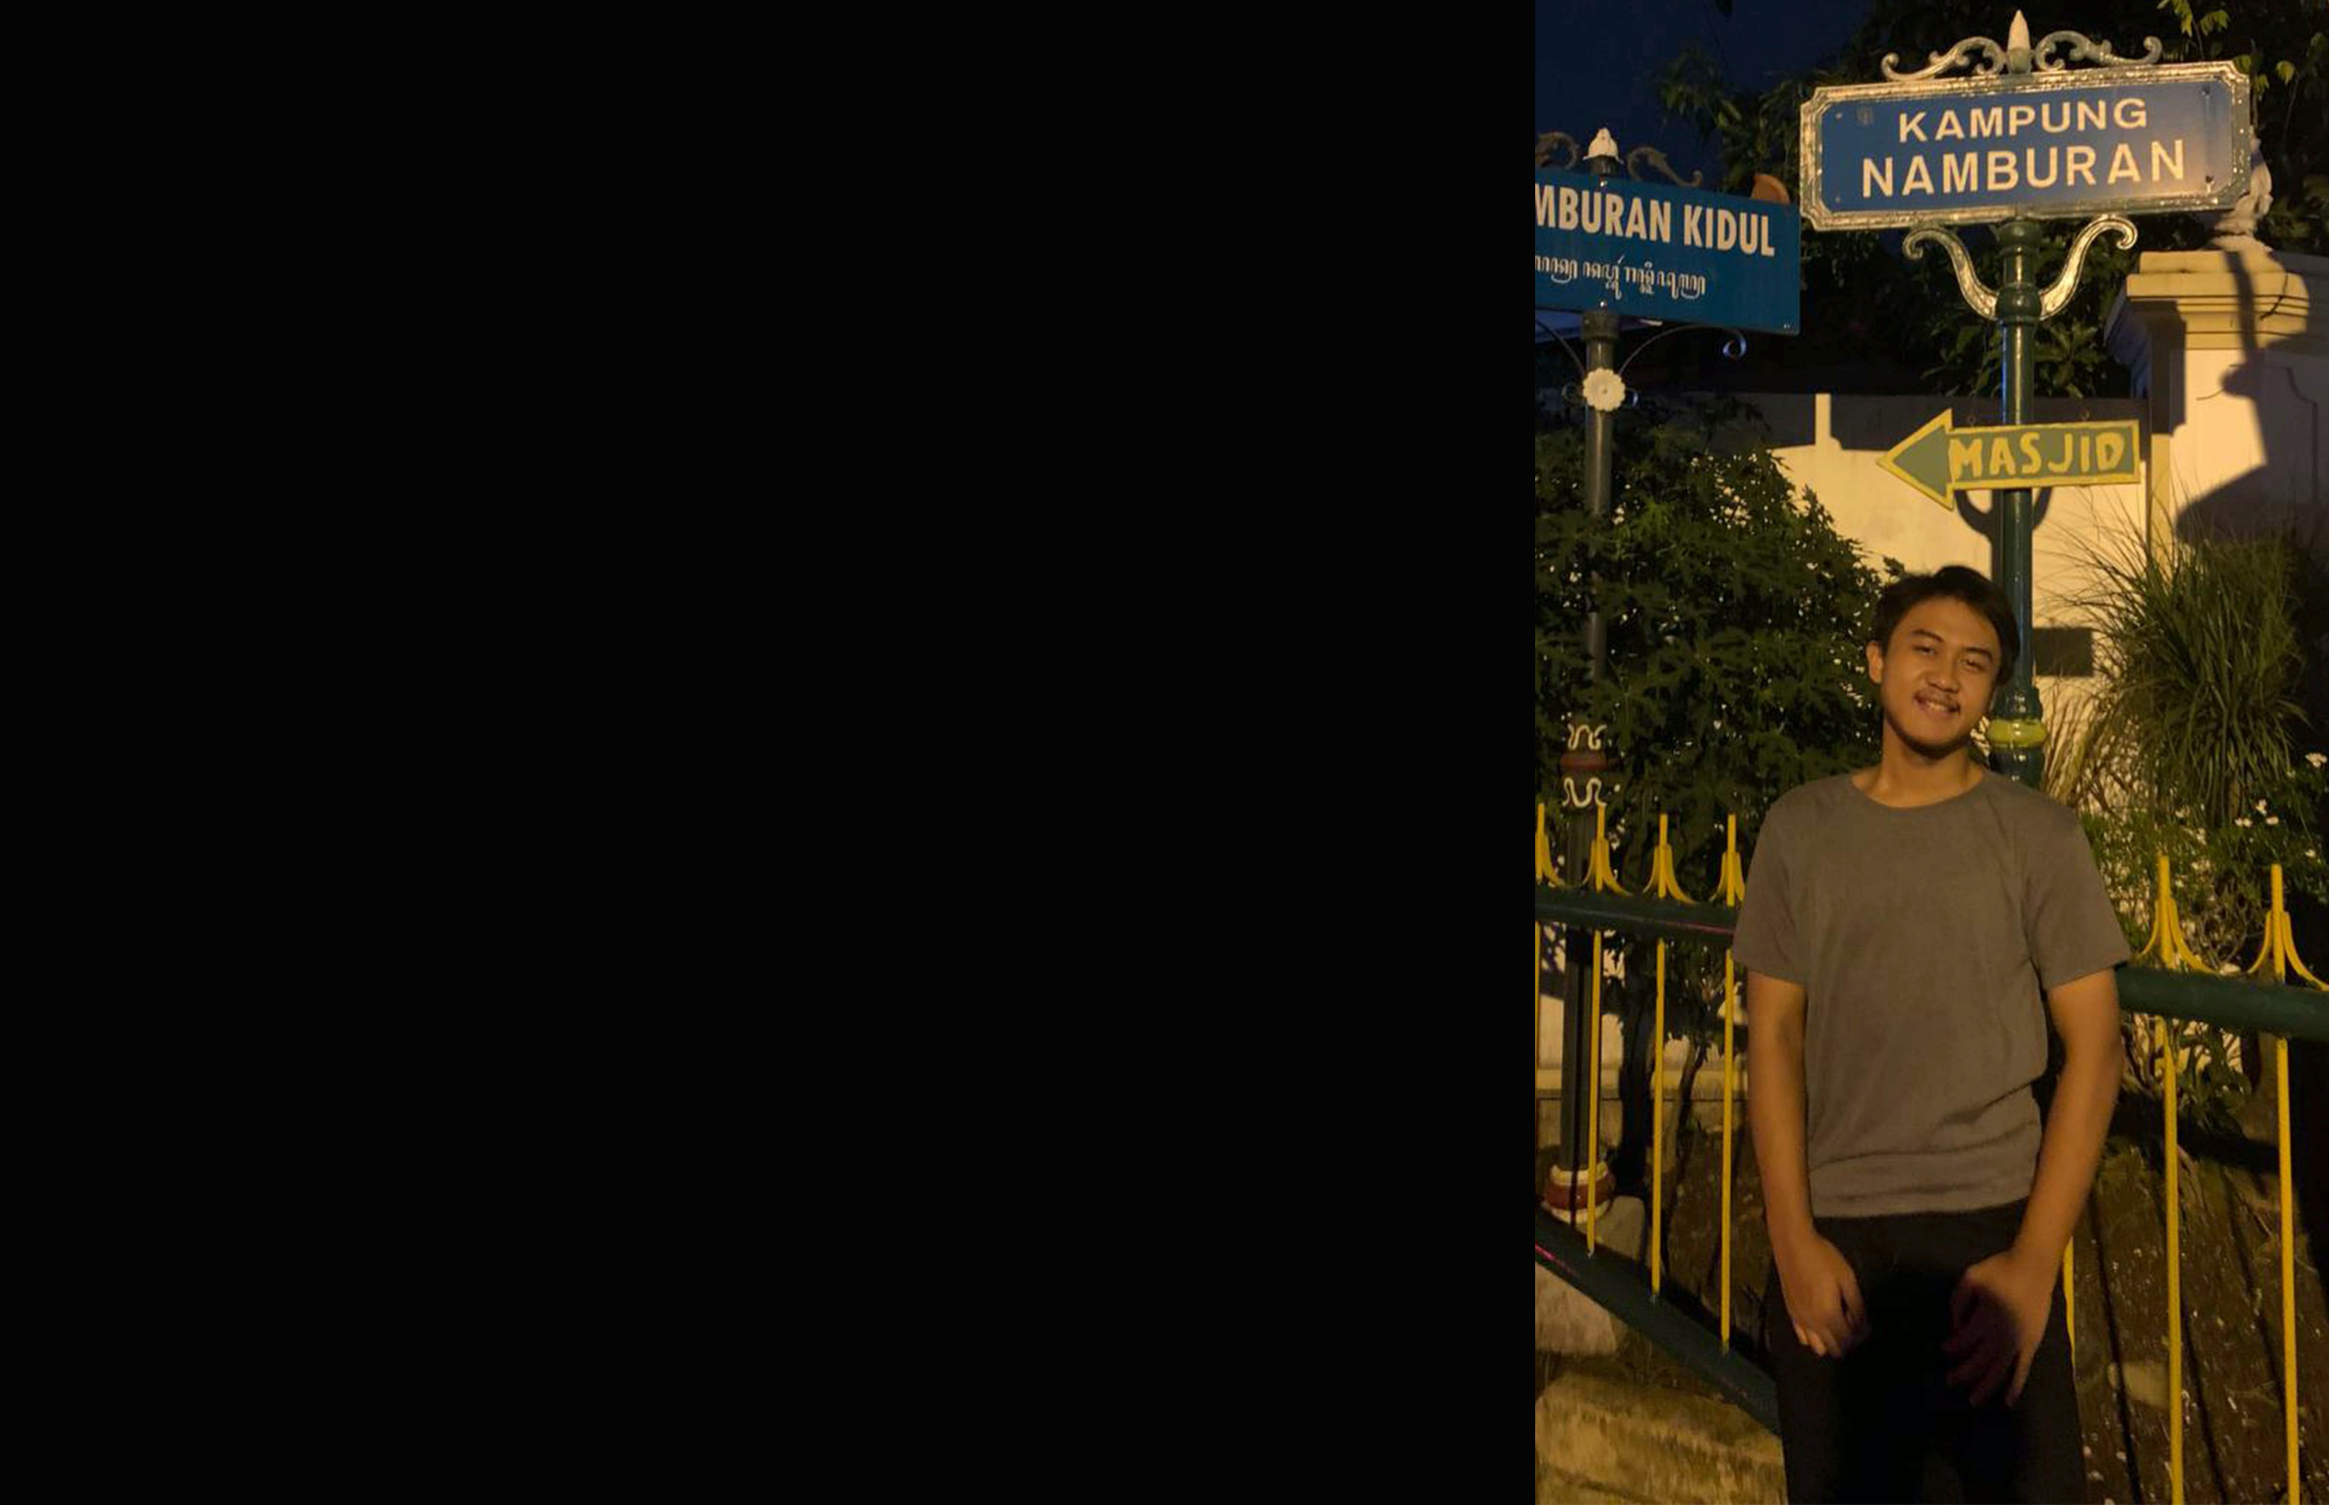
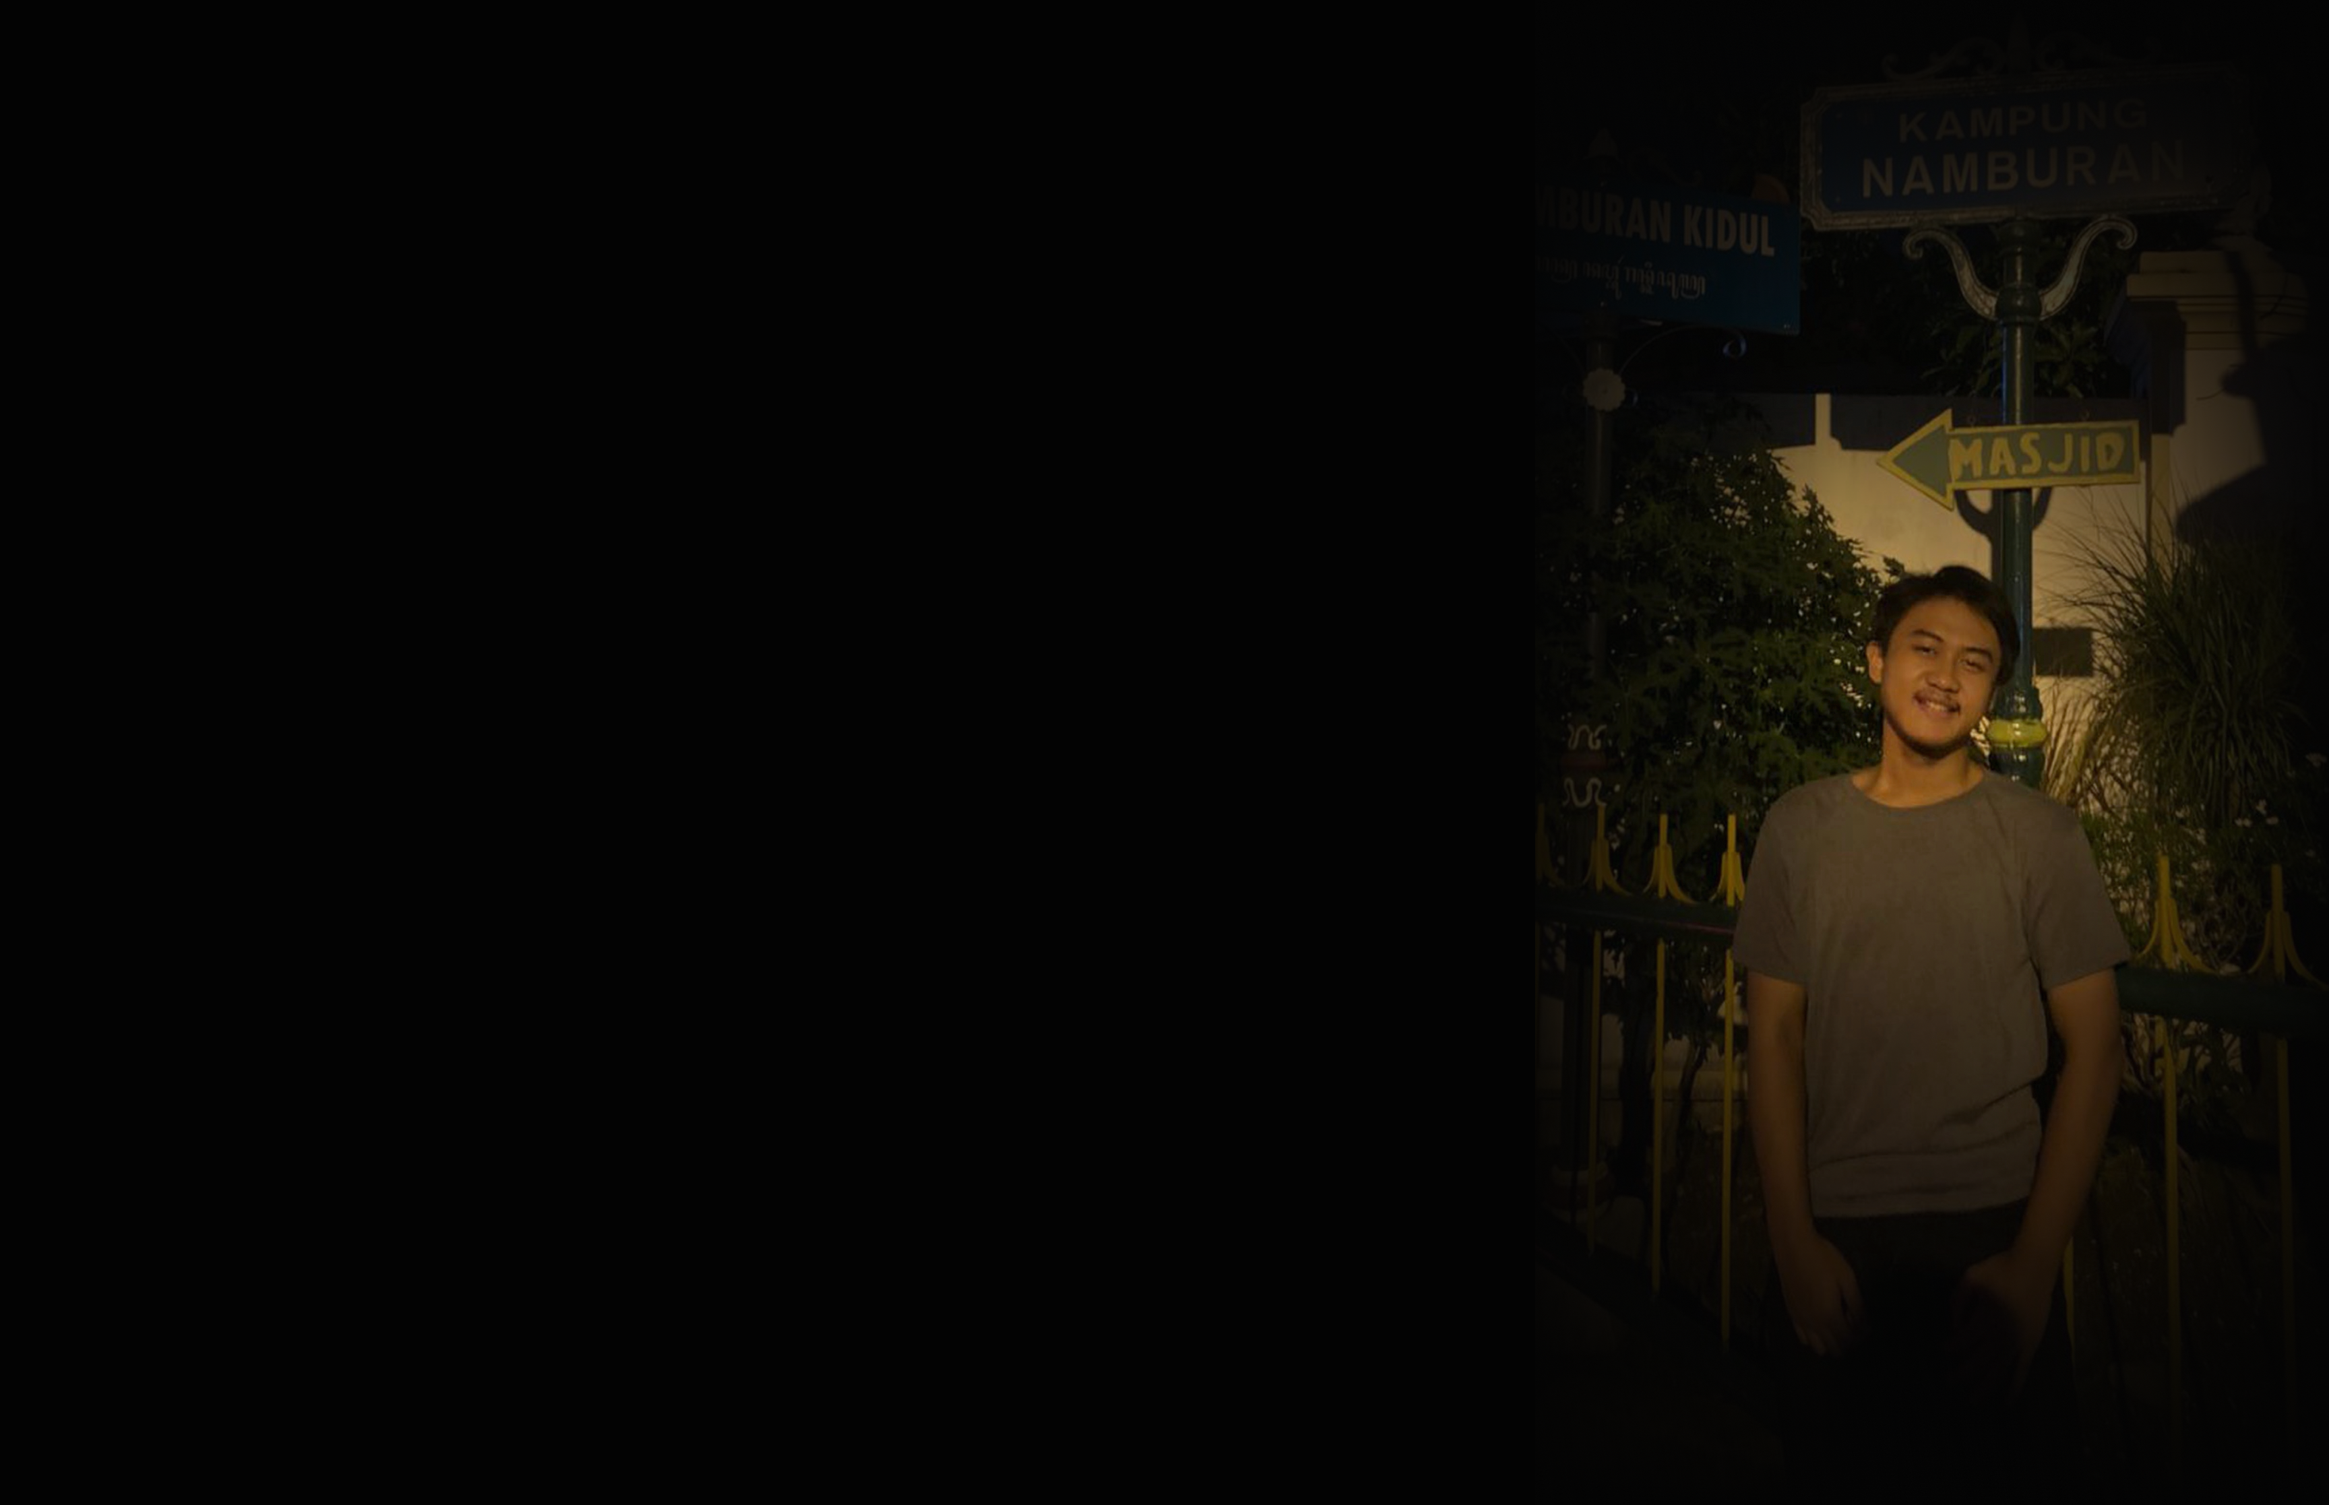
sect. Works-1

Changed region(s): [[0.6562, 0.0, 1.0, 1.0]]

diff --git a/portfolio/index.html b/portfolio/index.html
@@ -85,7 +85,7 @@
 
       <div class="row">
         <div class="col-lg-4" data-aos="fade-right">
-          <img src="" class="img-fluid" alt="">
+          <img src="./assets/img/me.png" class="img-fluid" alt="">
         </div>
         <div class="col-lg-8 pt-4 pt-lg-0 content" data-aos="fade-left">
           <h3>Mobile &amp; Website Developer</h3>
@@ -122,7 +122,7 @@
         <div class="col-lg-4 col-md-6 mt-5 mt-md-0">
           <div class="count-box">
             <i class="bi bi-journal-richtext"></i>
-            <span data-purecounter-start="0" data-purecounter-end="521" data-purecounter-duration="1" class="purecounter"></span>
+            <span data-purecounter-start="0" data-purecounter-end="36" data-purecounter-duration="1" class="purecounter"></span>
             <p>Projects</p>
           </div>
         </div>
@@ -130,15 +130,15 @@
         <div class="col-lg-4 col-md-6 mt-5 mt-lg-0">
           <div class="count-box">
             <i class="bi bi-headset"></i>
-            <span data-purecounter-start="0" data-purecounter-end="1463" data-purecounter-duration="1" class="purecounter"></span>
-            <p>Hours Of Support</p>
+            <span data-purecounter-start="0" data-purecounter-end="2" data-purecounter-duration="1" class="purecounter"></span>
+            <p>Year Of Experience</p>
           </div>
         </div>
 
         <div class="col-lg-4 col-md-6 mt-5 mt-lg-0">
           <div class="count-box">
             <i class="bi bi-award"></i>
-            <span data-purecounter-start="0" data-purecounter-end="24" data-purecounter-duration="1" class="purecounter"></span>
+            <span data-purecounter-start="0" data-purecounter-end="15" data-purecounter-duration="1" class="purecounter"></span>
             <p>Certification</p>
           </div>
         </div>
@@ -310,12 +310,12 @@
             <div class="testimonial-item">
               <p>
                 <i class="bx bxs-quote-alt-left quote-icon-left"></i>
-                Proin iaculis purus consequat sem cure digni ssim donec porttitora entum suscipit rhoncus. Accusantium quam, ultricies eget id, aliquam eget nibh et. Maecen aliquam, risus at semper.
+                Menjadi Sofware Developer 
                 <i class="bx bxs-quote-alt-right quote-icon-right"></i>
               </p>
-              <img src="assets/img/testimonials/testimonials-1.jpg" class="testimonial-img" alt="">
-              <h3>Saul Goodman</h3>
-              <h4>Ceo &amp; Founder</h4>
+              <img src="assets/img/testimonials/testimonials-1.png" class="testimonial-img" alt="">
+              <h3>Harits</h3>
+              <h4>Software Engineer</h4>
             </div>
           </div><!-- End testimonial item -->
 
@@ -593,13 +593,12 @@
 
         <div class="col-lg-4 col-md-6 portfolio-item filter-app">
           <div class="portfolio-wrap">
-            <img src="assets/img/portfolio/portfolio-1.jpg" class="img-fluid" alt="">
+            <img src="assets/img/portfolio/portfolio-1.png" class="img-fluid" alt="">
             <div class="portfolio-info">
-              <h4>App 1</h4>
-              <p>App</p>
+              <h4>Notes Application</h4>
+              <p>Application</p>
               <div class="portfolio-links">
-                <a href="assets/img/portfolio/portfolio-1.jpg" data-gallery="portfolioGallery" class="portfolio-lightbox" title="App 1"><i class="bx bx-plus"></i></a>
-                <a href="portfolio-details.html" data-gallery="portfolioDetailsGallery" data-glightbox="type: external" class="portfolio-details-lightbox" title="Portfolio Details"><i class="bx bx-link"></i></a>
+                <a href="assets/img/portfolio/portfolio-1.png" data-gallery="portfolioGallery" class="portfolio-lightbox"><i class="bx bx-plus"></i></a>
               </div>
             </div>
           </div>
@@ -607,13 +606,12 @@
 
         <div class="col-lg-4 col-md-6 portfolio-item filter-web">
           <div class="portfolio-wrap">
-            <img src="assets/img/portfolio/portfolio-2.jpg" class="img-fluid" alt="">
+            <img src="assets/img/portfolio/portfolio-4.png" class="img-fluid" alt="">
             <div class="portfolio-info">
-              <h4>Web 3</h4>
-              <p>Web</p>
+              <h4>Portfolio Website</h4>
+              <p>Website</p>
               <div class="portfolio-links">
-                <a href="assets/img/portfolio/portfolio-2.jpg" data-gallery="portfolioGallery" class="portfolio-lightbox" title="Web 3"><i class="bx bx-plus"></i></a>
-                <a href="portfolio-details.html" data-gallery="portfolioDetailsGallery" data-glightbox="type: external" class="portfolio-details-lightbox" title="Portfolio Details"><i class="bx bx-link"></i></a>
+                <a href="assets/img/portfolio/portfolio-4.png" data-gallery="portfolioGallery" class="portfolio-lightbox"><i class="bx bx-plus"></i></a>
               </div>
             </div>
           </div>
@@ -621,13 +619,12 @@
 
         <div class="col-lg-4 col-md-6 portfolio-item filter-app">
           <div class="portfolio-wrap">
-            <img src="assets/img/portfolio/portfolio-3.jpg" class="img-fluid" alt="">
+            <img src="assets/img/portfolio/portfolio-2.png" class="img-fluid" alt="">
             <div class="portfolio-info">
-              <h4>App 2</h4>
-              <p>App</p>
+              <h4>News Application</h4>
+              <p>Application</p>
               <div class="portfolio-links">
-                <a href="assets/img/portfolio/portfolio-3.jpg" data-gallery="portfolioGallery" class="portfolio-lightbox" title="App 2"><i class="bx bx-plus"></i></a>
-                <a href="portfolio-details.html" data-gallery="portfolioDetailsGallery" data-glightbox="type: external" class="portfolio-details-lightbox" title="Portfolio Details"><i class="bx bx-link"></i></a>
+                <a href="assets/img/portfolio/portfolio-2.png" data-gallery="portfolioGallery" class="portfolio-lightbox"><i class="bx bx-plus"></i></a>
               </div>
             </div>
           </div>
@@ -635,13 +632,12 @@
 
         <div class="col-lg-4 col-md-6 portfolio-item filter-card">
           <div class="portfolio-wrap">
-            <img src="assets/img/portfolio/portfolio-4.jpg" class="img-fluid" alt="">
+            <img src="assets/img/portfolio/portfolio-8.png" class="img-fluid" alt="">
             <div class="portfolio-info">
-              <h4>Card 2</h4>
-              <p>Card</p>
+              <h4>Vaccine App Design</h4>
+              <p>UI &amp; UX Design</p>
               <div class="portfolio-links">
-                <a href="assets/img/portfolio/portfolio-4.jpg" data-gallery="portfolioGallery" class="portfolio-lightbox" title="Card 2"><i class="bx bx-plus"></i></a>
-                <a href="portfolio-details.html" data-gallery="portfolioDetailsGallery" data-glightbox="type: external" class="portfolio-details-lightbox" title="Portfolio Details"><i class="bx bx-link"></i></a>
+                <a href="assets/img/portfolio/portfolio-8.png" data-gallery="portfolioGallery" class="portfolio-lightbox"2"><i class="bx bx-plus"></i></a>
               </div>
             </div>
           </div>
@@ -649,13 +645,12 @@
 
         <div class="col-lg-4 col-md-6 portfolio-item filter-web">
           <div class="portfolio-wrap">
-            <img src="assets/img/portfolio/portfolio-5.jpg" class="img-fluid" alt="">
+            <img src="assets/img/portfolio/portfolio-5.png" class="img-fluid" alt="">
             <div class="portfolio-info">
-              <h4>Web 2</h4>
-              <p>Web</p>
+              <h4>IDN Gourmet Website</h4>
+              <p>Website</p>
               <div class="portfolio-links">
-                <a href="assets/img/portfolio/portfolio-5.jpg" data-gallery="portfolioGallery" class="portfolio-lightbox" title="Web 2"><i class="bx bx-plus"></i></a>
-                <a href="portfolio-details.html" data-gallery="portfolioDetailsGallery" data-glightbox="type: external" class="portfolio-details-lightbox" title="Portfolio Details"><i class="bx bx-link"></i></a>
+                <a href="assets/img/portfolio/portfolio-5.png" data-gallery="portfolioGallery" class="portfolio-lightbox"><i class="bx bx-plus"></i></a>
               </div>
             </div>
           </div>
@@ -663,13 +658,12 @@
 
         <div class="col-lg-4 col-md-6 portfolio-item filter-app">
           <div class="portfolio-wrap">
-            <img src="assets/img/portfolio/portfolio-6.jpg" class="img-fluid" alt="">
+            <img src="assets/img/portfolio/portfolio-3.png" class="img-fluid" alt="">
             <div class="portfolio-info">
-              <h4>App 3</h4>
-              <p>App</p>
+              <h4>Smart Alarm Application</h4>
+              <p>Application</p>
               <div class="portfolio-links">
-                <a href="assets/img/portfolio/portfolio-6.jpg" data-gallery="portfolioGallery" class="portfolio-lightbox" title="App 3"><i class="bx bx-plus"></i></a>
-                <a href="portfolio-details.html" data-gallery="portfolioDetailsGallery" data-glightbox="type: external" class="portfolio-details-lightbox" title="Portfolio Details"><i class="bx bx-link"></i></a>
+                <a href="assets/img/portfolio/portfolio-3.png" data-gallery="portfolioGallery" class="portfolio-lightbox"><i class="bx bx-plus"></i></a>
               </div>
             </div>
           </div>
@@ -677,13 +671,12 @@
 
         <div class="col-lg-4 col-md-6 portfolio-item filter-card">
           <div class="portfolio-wrap">
-            <img src="assets/img/portfolio/portfolio-7.jpg" class="img-fluid" alt="">
+            <img src="assets/img/portfolio/portfolio-7.png" class="img-fluid" alt="">
             <div class="portfolio-info">
-              <h4>Card 1</h4>
-              <p>Card</p>
+              <h4>Dzikir &amp; Doa App Design</h4>
+              <p>UI &amp; UX Design</p>
               <div class="portfolio-links">
-                <a href="assets/img/portfolio/portfolio-7.jpg" data-gallery="portfolioGallery" class="portfolio-lightbox" title="Card 1"><i class="bx bx-plus"></i></a>
-                <a href="portfolio-details.html" data-gallery="portfolioDetailsGallery" data-glightbox="type: external" class="portfolio-details-lightbox" title="Portfolio Details"><i class="bx bx-link"></i></a>
+                <a href="assets/img/portfolio/portfolio-7.png" data-gallery="portfolioGallery" class="portfolio-lightbox"1"><i class="bx bx-plus"></i></a>
               </div>
             </div>
           </div>
@@ -691,13 +684,12 @@
 
         <div class="col-lg-4 col-md-6 portfolio-item filter-card">
           <div class="portfolio-wrap">
-            <img src="assets/img/portfolio/portfolio-8.jpg" class="img-fluid" alt="">
+            <img src="assets/img/portfolio/portfolio-9.png" class="img-fluid" alt="">
             <div class="portfolio-info">
-              <h4>Card 3</h4>
-              <p>Card</p>
+              <h4>Food App Design</h4>
+              <p>UI &amp; UX Design</p>
               <div class="portfolio-links">
-                <a href="assets/img/portfolio/portfolio-8.jpg" data-gallery="portfolioGallery" class="portfolio-lightbox" title="Card 3"><i class="bx bx-plus"></i></a>
-                <a href="portfolio-details.html" data-gallery="portfolioDetailsGallery" data-glightbox="type: external" class="portfolio-details-lightbox" title="Portfolio Details"><i class="bx bx-link"></i></a>
+                <a href="assets/img/portfolio/portfolio-9.png" data-gallery="portfolioGallery" class="portfolio-lightbox"><i class="bx bx-plus"></i></a>
               </div>
             </div>
           </div>
@@ -705,13 +697,12 @@
 
         <div class="col-lg-4 col-md-6 portfolio-item filter-web">
           <div class="portfolio-wrap">
-            <img src="assets/img/portfolio/portfolio-9.jpg" class="img-fluid" alt="">
+            <img src="assets/img/portfolio/portfolio-6.png" class="img-fluid" alt="">
             <div class="portfolio-info">
-              <h4>Web 3</h4>
-              <p>Web</p>
+              <h4>Portfolio Website</h4>
+              <p>Website</p>
               <div class="portfolio-links">
-                <a href="assets/img/portfolio/portfolio-9.jpg" data-gallery="portfolioGallery" class="portfolio-lightbox" title="Web 3"><i class="bx bx-plus"></i></a>
-                <a href="portfolio-details.html" data-gallery="portfolioDetailsGallery" data-glightbox="type: external" class="portfolio-details-lightbox" title="Portfolio Details"><i class="bx bx-link"></i></a>
+                <a href="assets/img/portfolio/portfolio-6.png" data-gallery="portfolioGallery" class="portfolio-lightbox"><i class="bx bx-plus"></i></a>
               </div>
             </div>
           </div>

diff --git a/portfolio/assets/css/style.css b/portfolio/assets/css/style.css
@@ -21,7 +21,7 @@ body::before {
   position: fixed;
   background: url(../img/bg.png) #040404 ;
   background-position: center;
-  background-size: cover;
+  background-size: contain;
   background-repeat: no-repeat;
   left: 0;
   right: 0;
